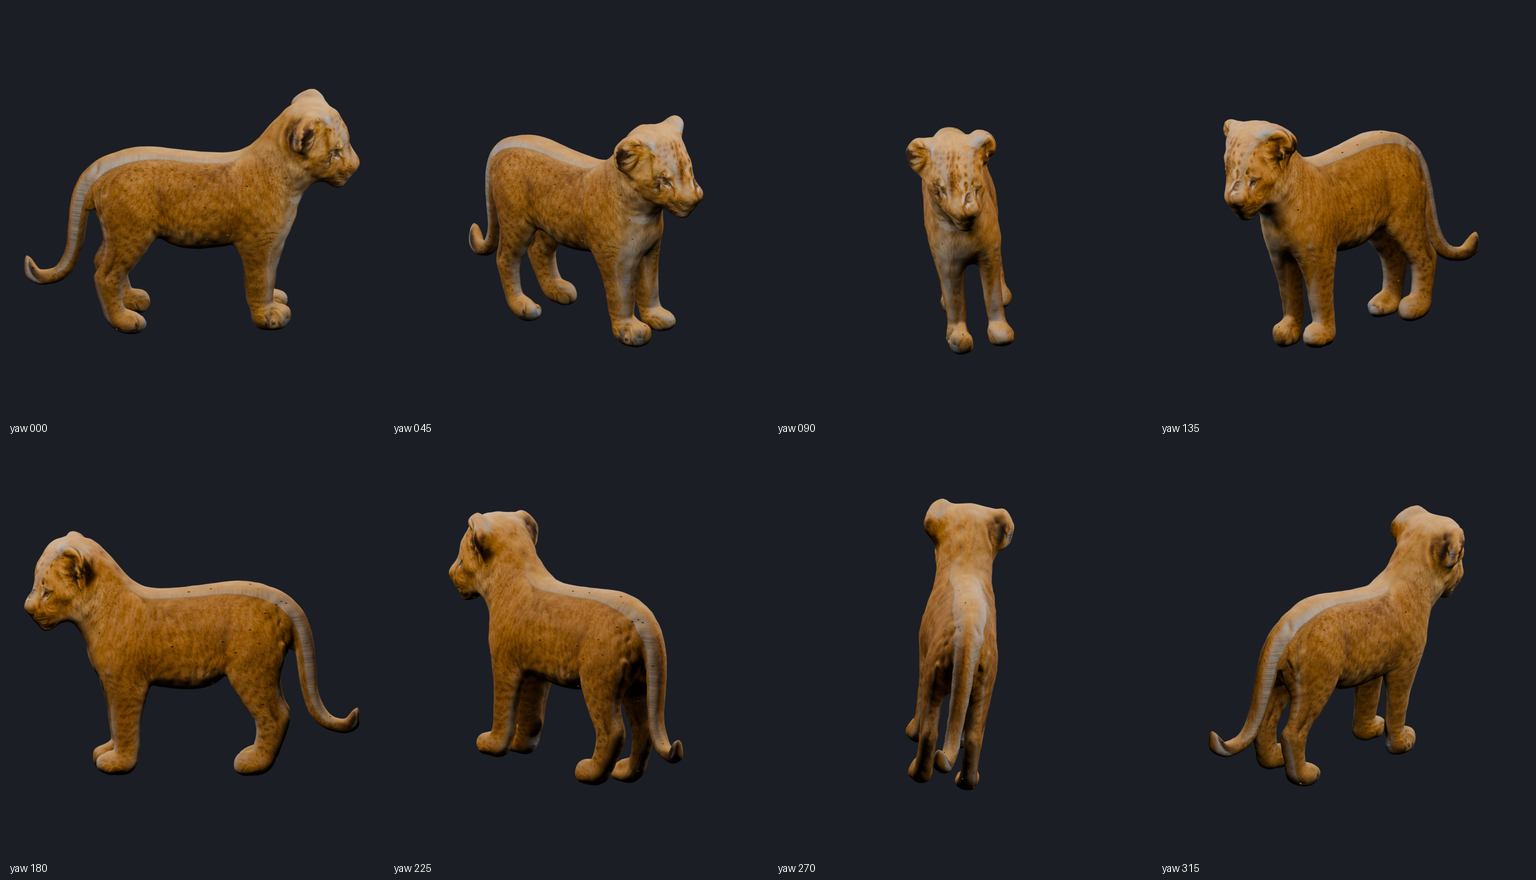
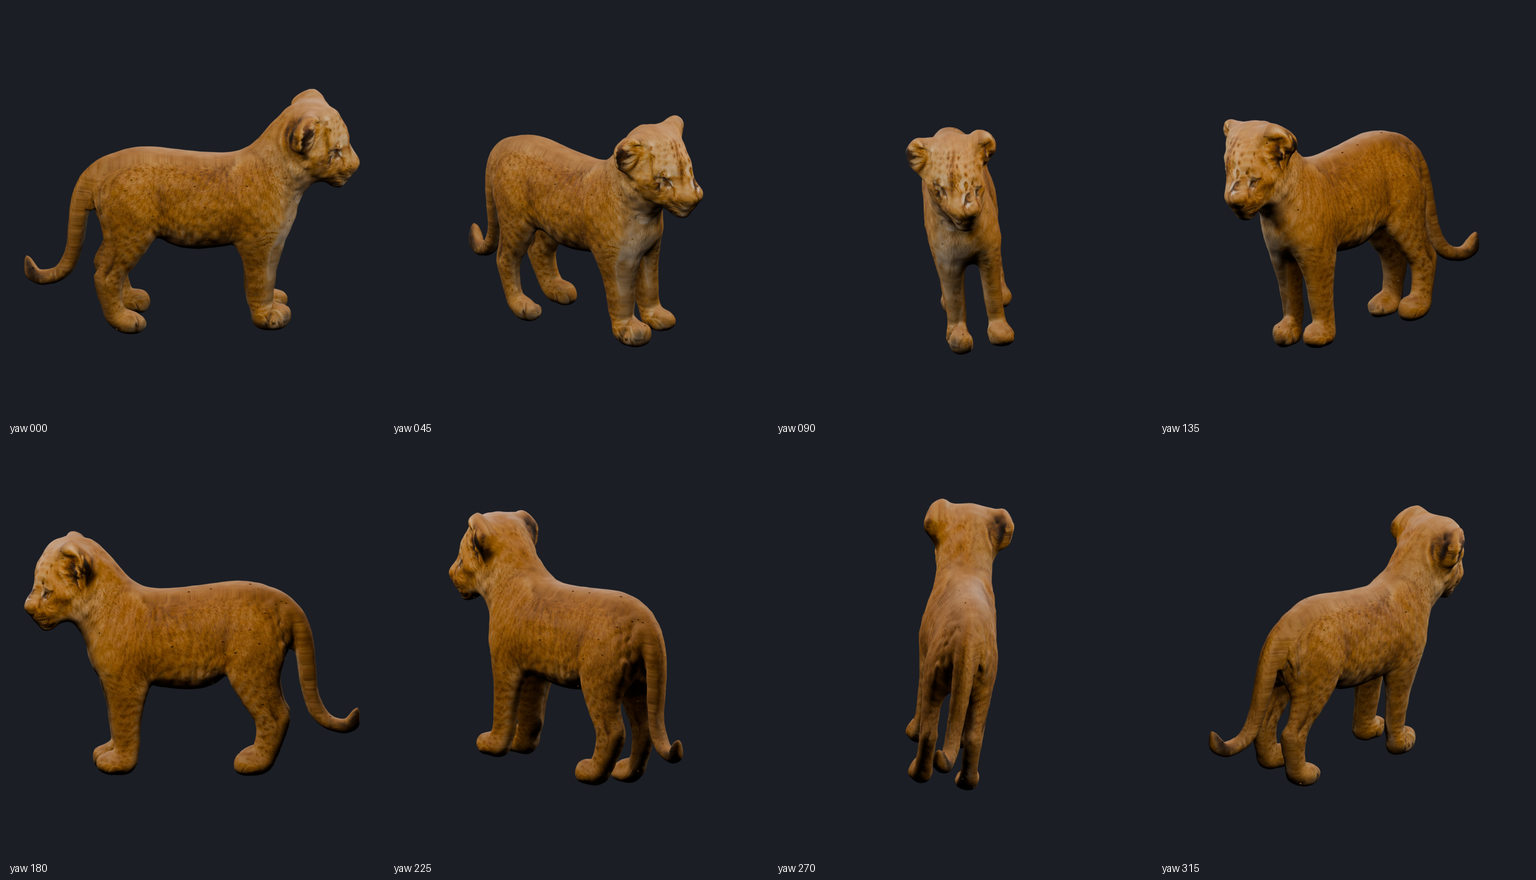
fix: blend realistic Leo projection edges

diff --git a/tools/blender/extract_turnaround_textures.py b/tools/blender/extract_turnaround_textures.py
@@ -66,10 +66,22 @@ def dilate(mask: np.ndarray, iterations: int) -> np.ndarray:
     return result
 
 
+def erode(mask: np.ndarray, iterations: int) -> np.ndarray:
+    result = mask.copy()
+    for _ in range(iterations):
+        contracted = result.copy()
+        contracted[1:] &= result[:-1]
+        contracted[:-1] &= result[1:]
+        contracted[:, 1:] &= result[:, :-1]
+        contracted[:, :-1] &= result[:, 1:]
+        result = contracted
+    return result
+
+
 def extend_edge_colors(texture: Image.Image) -> Image.Image:
     """Fill projection-only transparent pixels from the nearest subject color."""
     rgba = np.asarray(texture.convert("RGBA"), dtype=np.uint8).copy()
-    known = rgba[:, :, 3] >= 220
+    known = erode(rgba[:, :, 3] >= 220, 6)
     if not np.any(known):
         raise RuntimeError("Cannot extend an empty turnaround texture")
     queue: deque[tuple[int, int]] = deque(

diff --git a/tools/blender/refine_realistic_leo.py b/tools/blender/refine_realistic_leo.py
@@ -348,9 +348,9 @@ def apply_turnaround_projection(body: bpy.types.Object, textures_dir: Path) -> N
     set_input(dorsal_noise, "Roughness", 0.68)
     dorsal_ramp = nodes.new("ShaderNodeValToRGB")
     dorsal_ramp.color_ramp.elements[0].position = 0.20
-    dorsal_ramp.color_ramp.elements[0].color = rgba("#71310C")
+    dorsal_ramp.color_ramp.elements[0].color = rgba("#421706")
     dorsal_ramp.color_ramp.elements[1].position = 0.82
-    dorsal_ramp.color_ramp.elements[1].color = rgba("#D77E25")
+    dorsal_ramp.color_ramp.elements[1].color = rgba("#8C4716")
     links.new(coordinates.outputs["Generated"], dorsal_noise.inputs["Vector"])
     links.new(dorsal_noise.outputs["Fac"], dorsal_ramp.inputs["Fac"])
     links.new(dorsal_ramp.outputs["Color"], vertical_color.inputs[1])

diff --git a/assets/renders/prototypes/realistic-sculpt-v1/README.md b/assets/renders/prototypes/realistic-sculpt-v1/README.md
@@ -13,11 +13,13 @@ What passed:
 - mechanical alpha, framing, and safety-edge QA passes;
 - the front face, eyes, ear markings, coat, paws, and side anatomy derive from the
   approved project-owned realistic reference;
+- projection-only edge colors extend from interior fur, preventing a bright seam
+  along the spine, head, and tail;
 - multi-object normalization no longer detaches facial geometry.
 
 What remains before rigging:
 
-- reduce the remaining dorsal projection blend and improve the belly transition;
+- improve the remaining belly projection transition;
 - refine the head, ear, paw, and tail geometry against the turnaround;
 - produce a clean deformation topology and approve the final turntable at pet size.
 

diff --git a/docs/BLENDER_PIPELINE.md b/docs/BLENDER_PIPELINE.md
@@ -81,7 +81,7 @@ tools/blender/render_realistic_identity.sh
 
 The checkpoint is stored in `assets/source-3d/leo-realistic.blend`, with review
 evidence in `assets/renders/prototypes/realistic-sculpt-v1/`. It is still isolated
-from the runtime while head/ear/paw topology and the dorsal projection transition
+from the runtime while head/ear/paw topology and the belly projection transition
 remain under review.
 
 Build only: